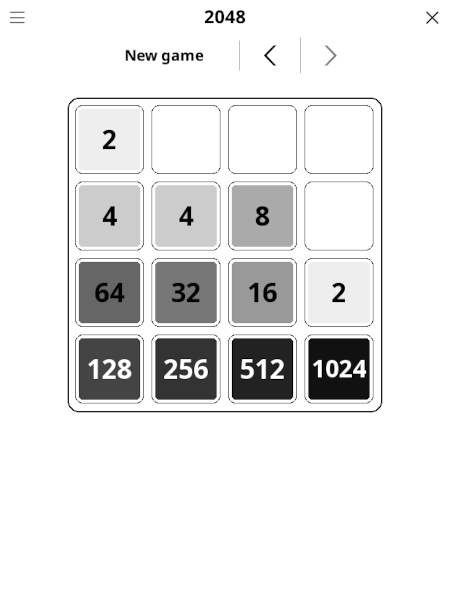
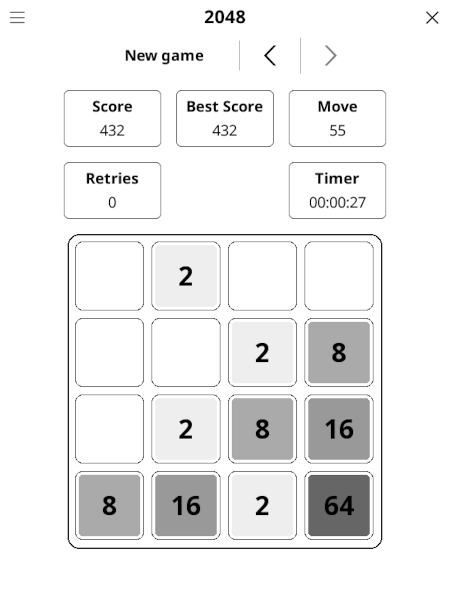
docs: update preview

Changed region(s): [[0.1244, 0.15, 0.8711, 0.93], [0.56, 0.81, 0.5911, 0.87]]

diff --git a/README.md b/README.md
@@ -10,5 +10,5 @@ Game inspired by 2048 implemented as KOReader plugin.
 - [x] History
 - [x] Non-touch control
 - [x] Saving state
-- [ ] Scoreboard
+- [x] Scoreboard
 - [ ] Settings
